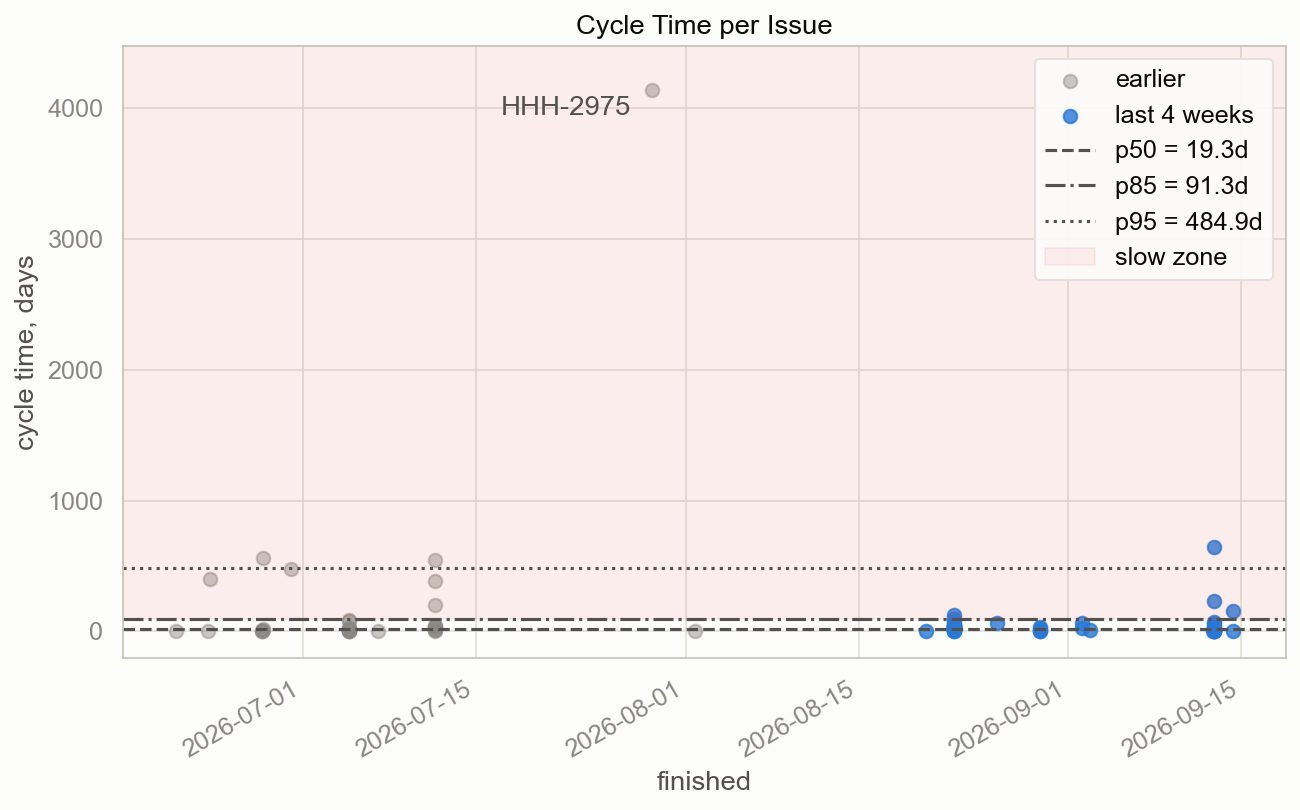
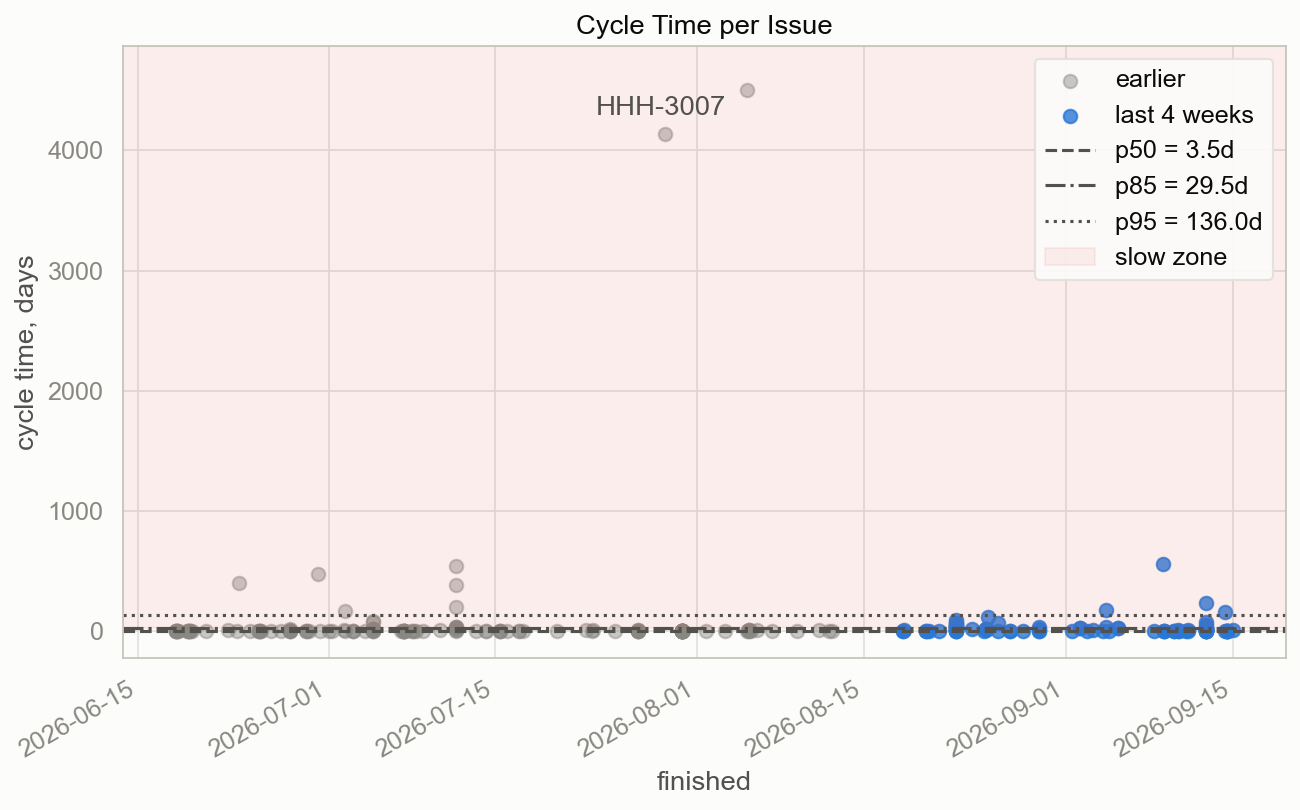
docs: regenerate Hibernate charts with status categories
With statuses classified by Jira's categories, the 164 Hibernate issues
in Release pending, a Done-category status, count as finished. The
forecast, throughput, cycle time and lead time charts were rebuilt with
the default behaviour and the example command from the README, and the
captions quote the new numbers: 151 open issues, 85% done by 24 November
2026.

diff --git a/README.md b/README.md
@@ -21,7 +21,7 @@ Every chart below comes from real public projects - the [Hibernate ORM](https://
 
 ### When will it be done?
 
-**Monte Carlo forecast.** 316 open Hibernate issues at the pace of the last 12 finished weeks: half the simulations clear them by 24 August 2027, 85% by 12 October 2027 - real dates, not story points.
+**Monte Carlo forecast.** 151 open Hibernate issues at the pace of the last 12 finished weeks: half the simulations clear them by 17 November 2026, 85% by 24 November - real dates, not story points.
 
 ![Monte Carlo forecast](docs/images/forecast.png)
 
@@ -31,7 +31,7 @@ Every chart below comes from real public projects - the [Hibernate ORM](https://
 
 ### How fast do tickets finish?
 
-**Cycle time, ticket by ticket.** Every dot is a Hibernate issue finished in the last three months - the last 4 weeks in blue, the slowest ticket named (HHH-2975, closed after eleven years), and the "slow zone" beyond p85 tinted red.
+**Cycle time, ticket by ticket.** Every dot is a Hibernate issue finished in the last three months - the last 4 weeks in blue, the slowest ticket named (HHH-3007, finished after more than twelve years), and the "slow zone" beyond p85 tinted red.
 
 ![Cycle time per issue](docs/images/cycle_time_scatter.png)
 
